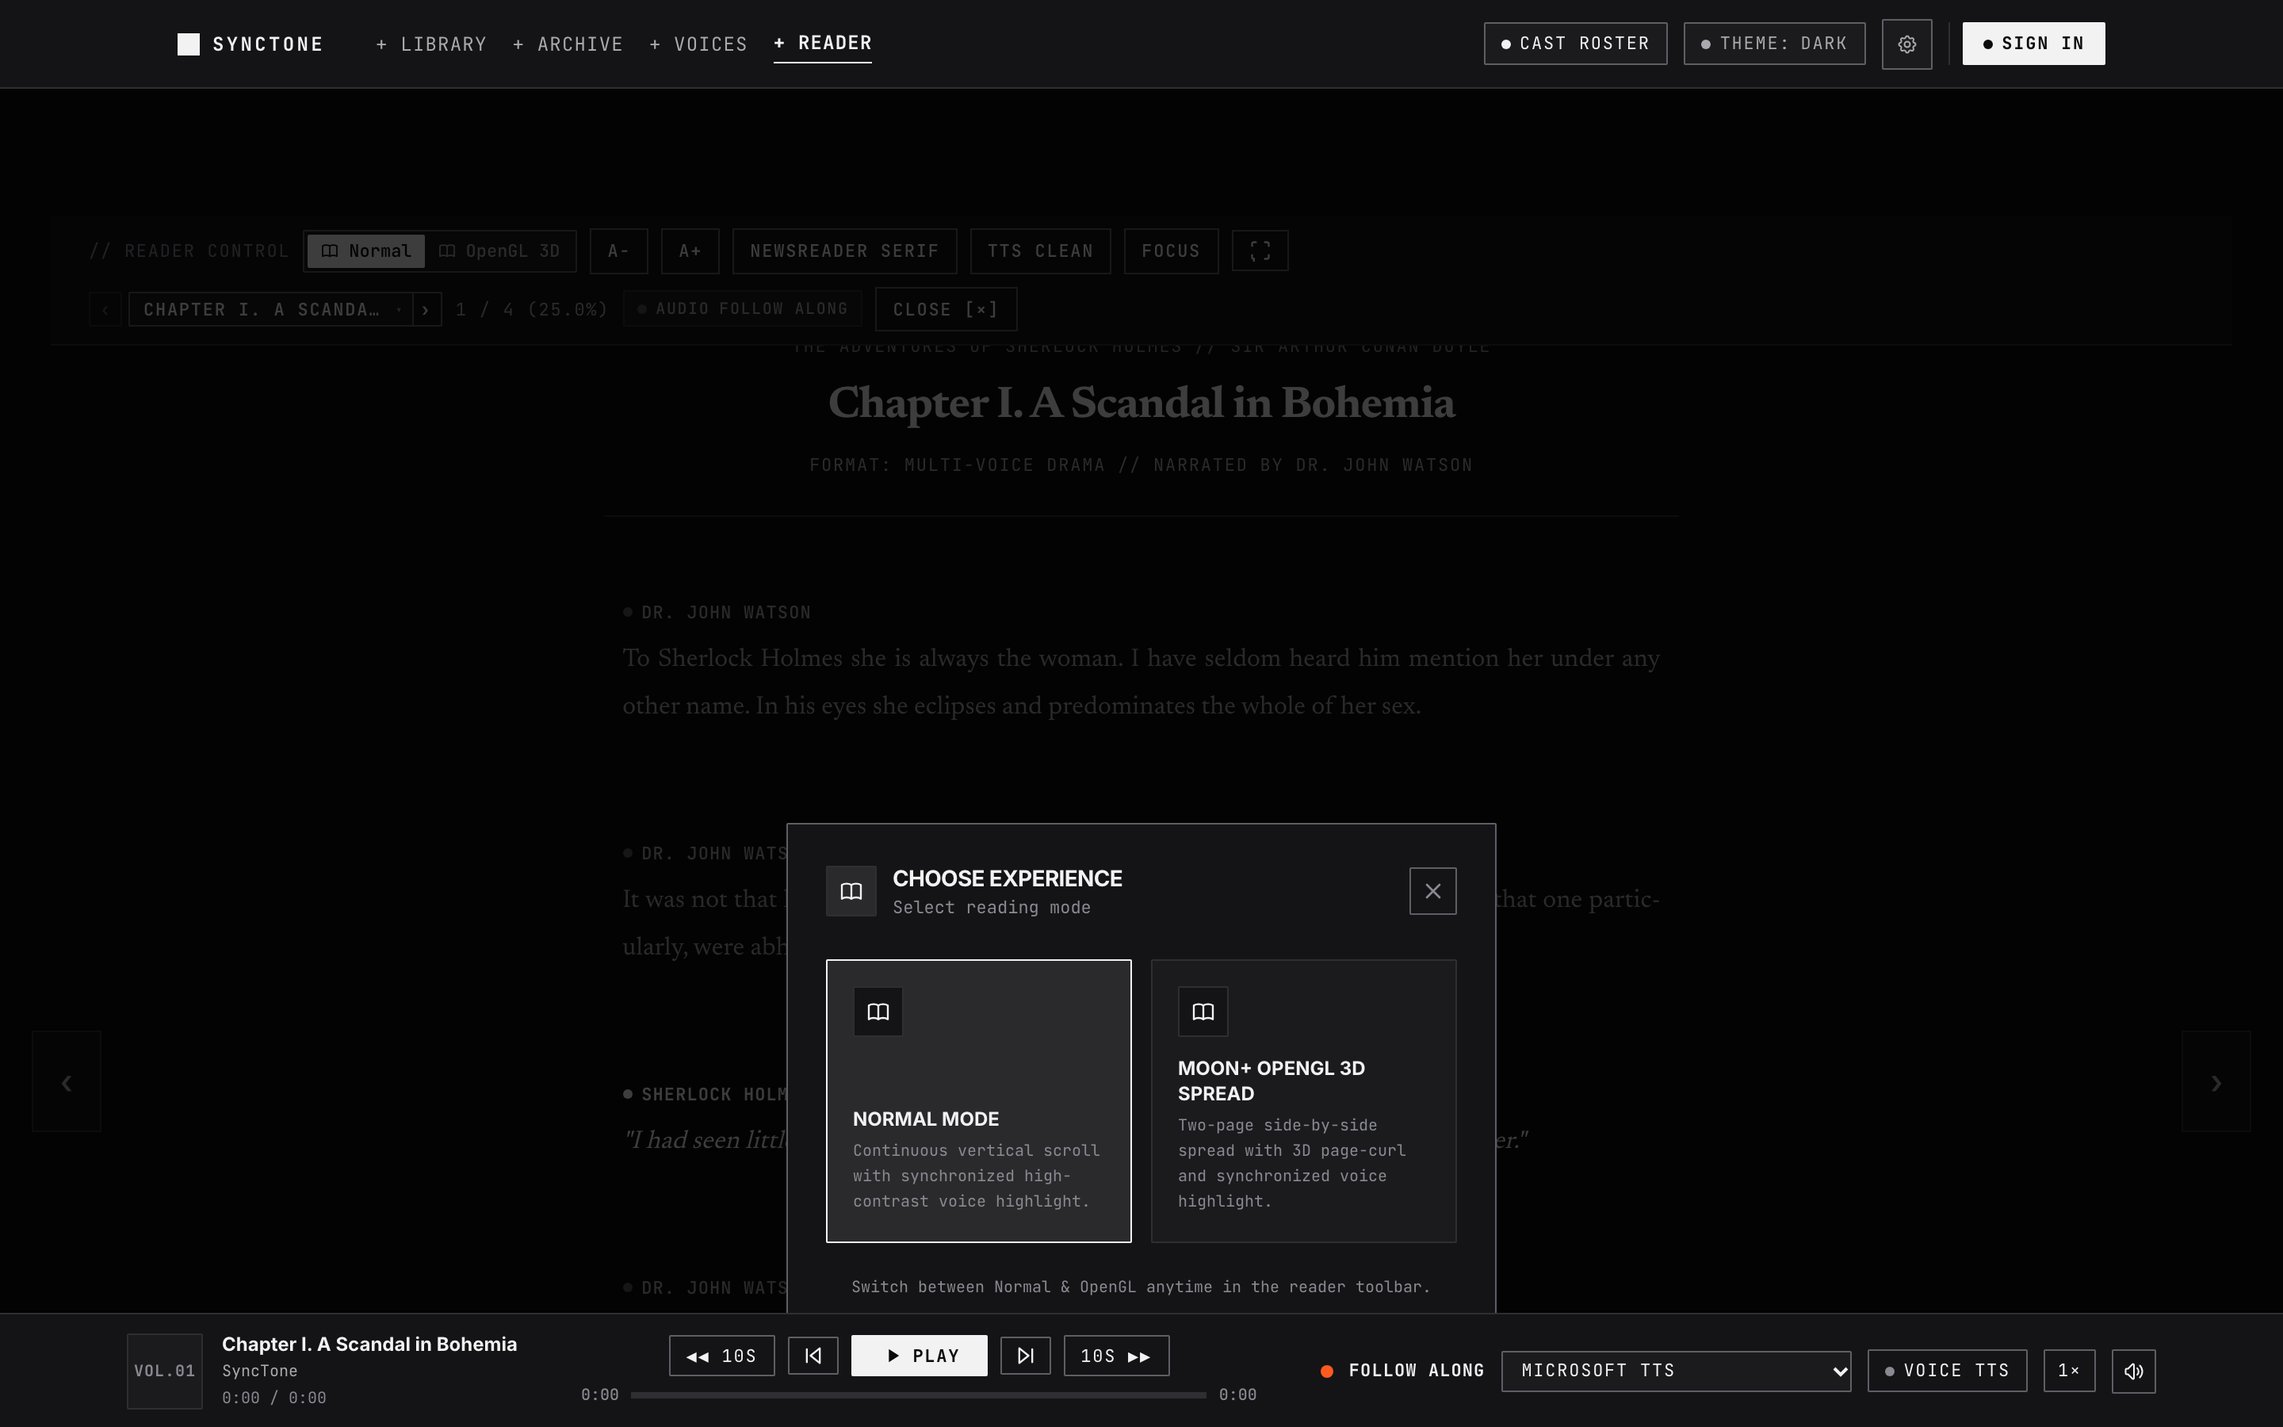
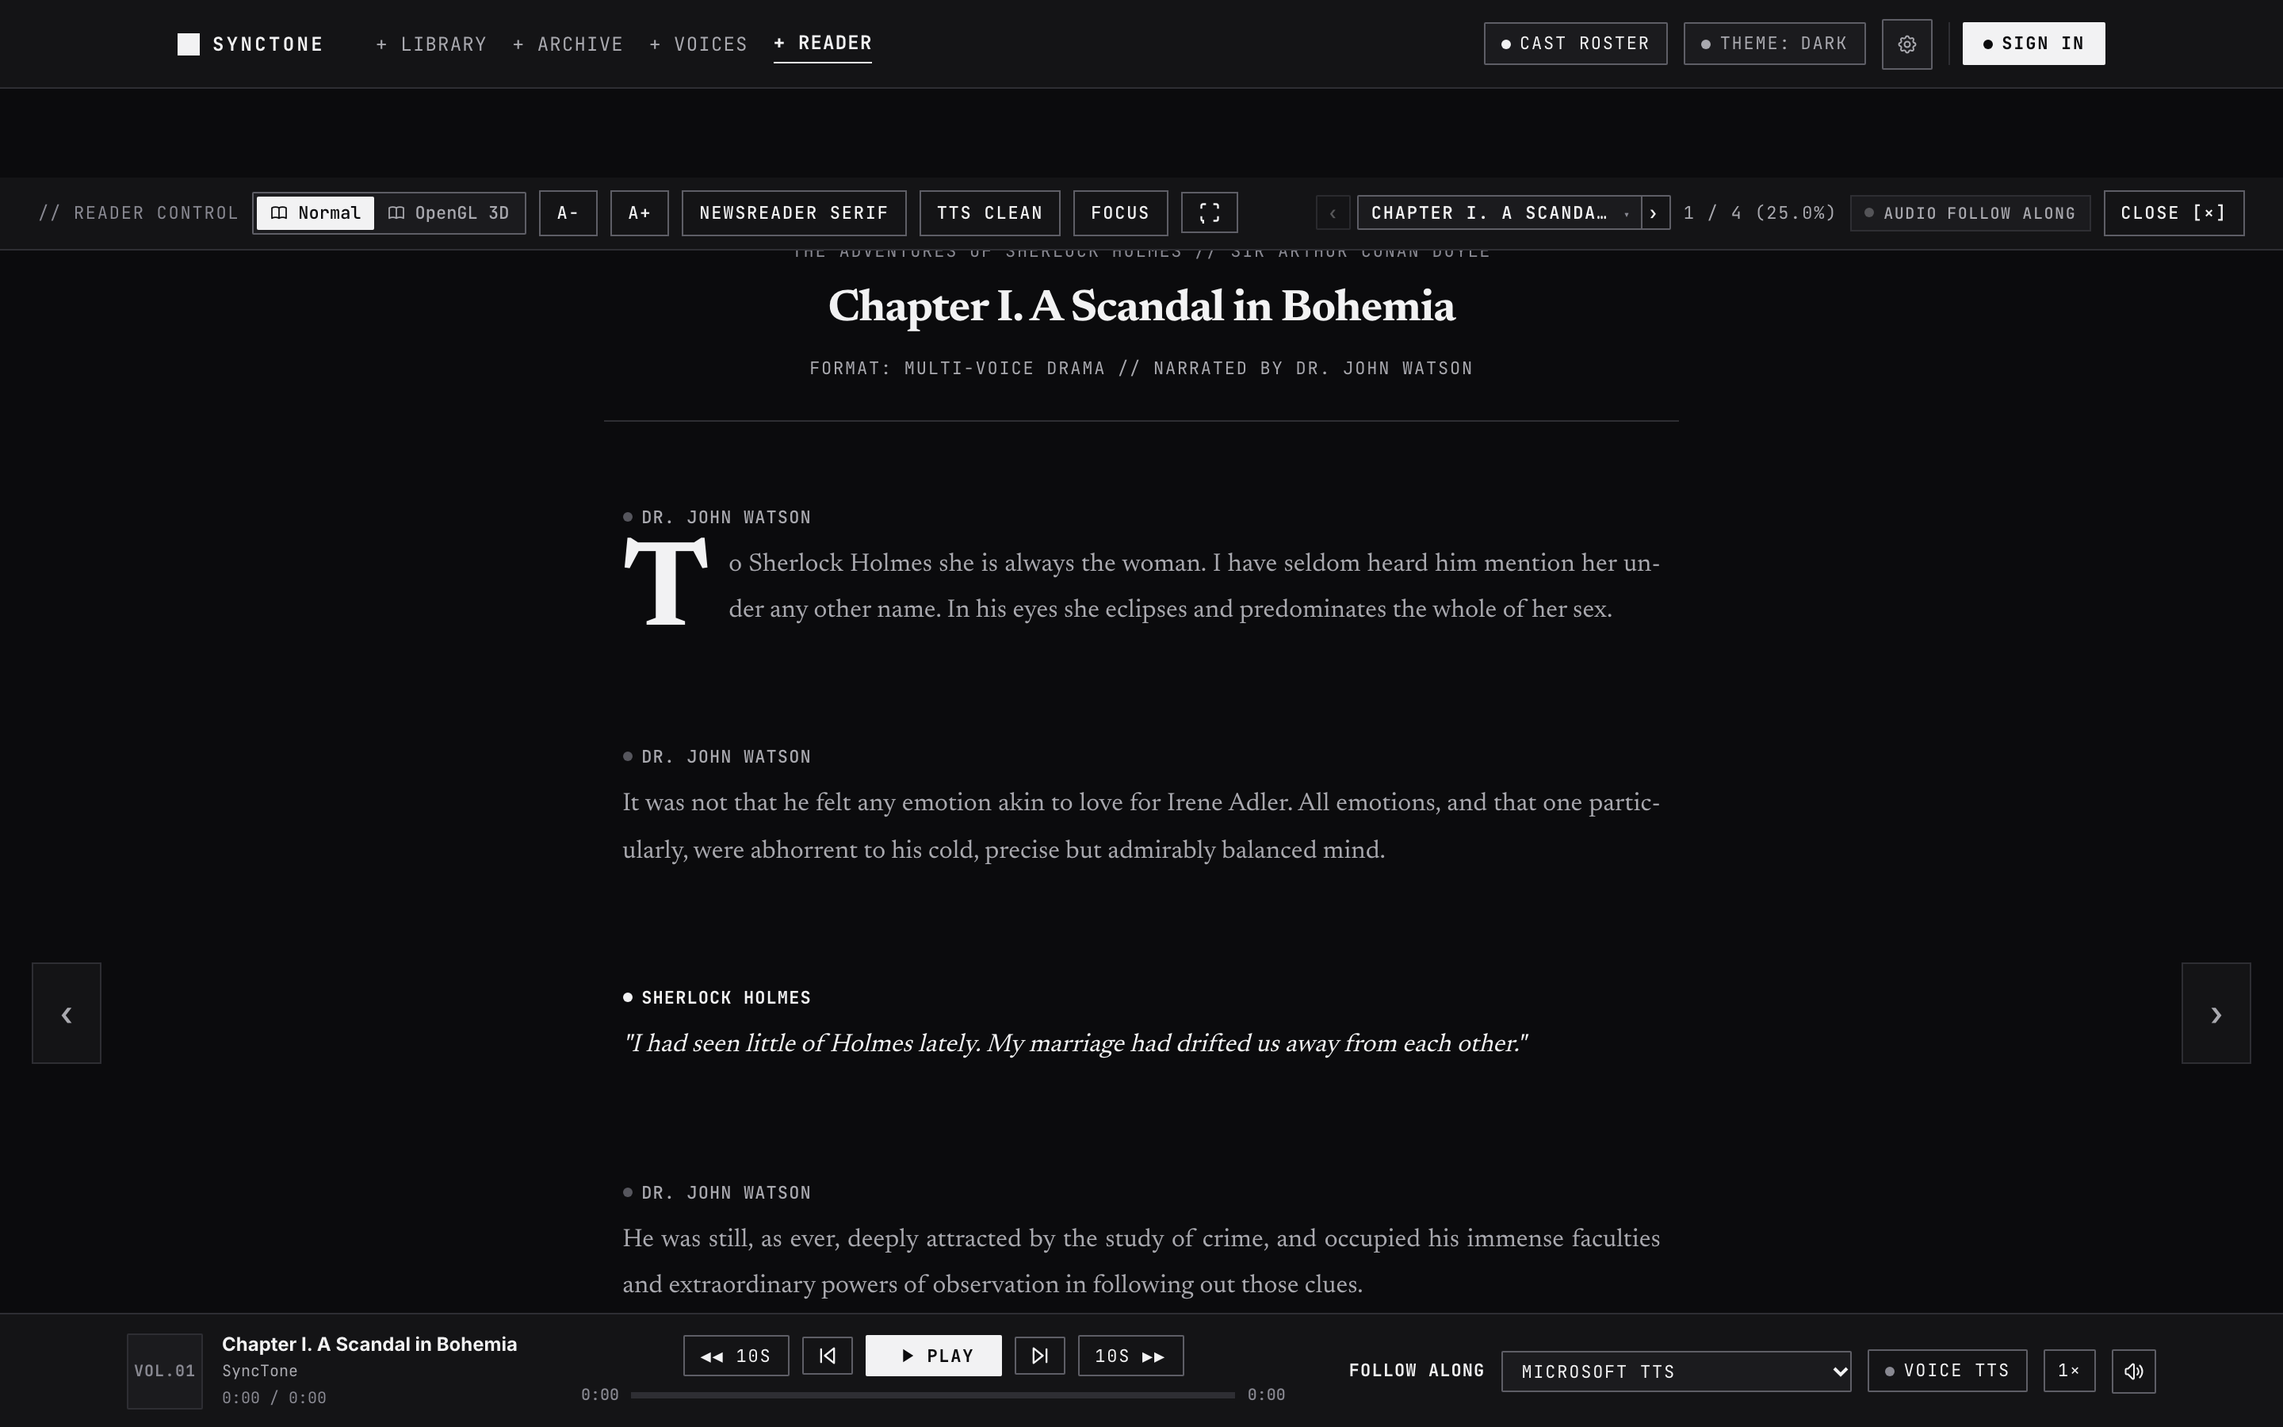
fix(reader): resolve drop-cap, toolbar wrap, signal dot, and OpenGL fit matrix zero-scroll

diff --git a/novel-audio-synthesizer/frontend/src/components/ReaderView.jsx b/novel-audio-synthesizer/frontend/src/components/ReaderView.jsx
@@ -62,15 +62,8 @@ export default function ReaderView({
   // Reader mode: 'normal' (WTR-Lab scroll) vs 'opengl' (Moon+ Reader Pro 3D book)
   const [readerMode, setReaderMode] = useState('normal');
 
-  // Popup Modal for choosing experience when opening the reader (browser only)
-  const [showExperiencePopup, setShowExperiencePopup] = useState(() => {
-    if (!isBrowserEnv) return false;
-    try {
-      return !localStorage.getItem('synctone_reader_mode_seen');
-    } catch (_) {
-      return false;
-    }
-  });
+  // Experience modal available if triggered (defaults to closed for pristine reading surface)
+  const [showExperiencePopup, setShowExperiencePopup] = useState(false);
 
   const [isScrolledAway, setIsScrolledAway] = useState(false);
   const [isFocusMode, setIsFocusMode] = useState(false);
@@ -106,12 +99,20 @@ export default function ReaderView({
     return idx >= 0 ? idx : 0;
   }, [activeSegmentId, effectiveSegments]);
 
+  const [openGlPageInfo, setOpenGlPageInfo] = useState({ current: 1, total: 1 });
+
   const pageCounterText = React.useMemo(() => {
+    if (readerMode === 'opengl') {
+      const cur = openGlPageInfo.current || 1;
+      const tot = openGlPageInfo.total || 1;
+      const pct = ((cur / tot) * 100).toFixed(1);
+      return `${cur} / ${tot} (${pct}%)`;
+    }
     const total = Math.max(1, effectiveSegments.length);
     const current = Math.min(total, activeSegmentIdx + 1);
     const pct = ((current / total) * 100).toFixed(1);
     return `${current} / ${total} (${pct}%)`;
-  }, [activeSegmentIdx, effectiveSegments.length]);
+  }, [readerMode, openGlPageInfo, activeSegmentIdx, effectiveSegments.length]);
 
   const handleGutterPrev = useCallback(() => {
     if (typeof window !== 'undefined') {
@@ -276,9 +277,10 @@ export default function ReaderView({
   }
 
   // WTR-Lab Intra-segment text renderer with word highlight and inline EPUB illustrations
-  const renderSegmentText = (seg, isActive) => {
+  const renderSegmentText = (seg, isActive, sIdx = -1) => {
     const { imgUrl, cleanText } = parseSegmentImage(seg);
     const isDialogue = seg.type === 'dialogue';
+    const isOpening = sIdx === 0 && !isDialogue;
     const displayText = isDialogue
       ? (cleanText ? `"${cleanText.replace(/^["“”]|["“”]$/g, '')}"` : '')
       : cleanText;
@@ -302,7 +304,7 @@ export default function ReaderView({
         <>
           {imageElement}
           {displayText && (
-            <p className={`relative z-10 leading-[1.85] text-justify hyphens-auto ${isDialogue ? 'italic theme-main font-serif' : 'theme-sub font-normal'}`}>
+            <p className={`relative z-10 leading-[1.85] text-justify hyphens-auto ${isOpening ? 'reader-opening-para' : ''} ${isDialogue ? 'italic theme-main font-serif' : 'theme-sub font-normal'}`}>
               {displayText}
             </p>
           )}
@@ -356,7 +358,7 @@ export default function ReaderView({
       <>
         {imageElement}
         {displayText && (
-          <p className={`relative z-10 leading-[1.85] text-justify hyphens-auto p-2 rounded-[1px] bg-[var(--accent-surface)] border-l-2 border-[var(--text-main)] ${
+          <p className={`relative z-10 leading-[1.85] text-justify hyphens-auto p-2 rounded-[1px] bg-[var(--accent-surface)] border-l-2 border-[var(--text-main)] ${isOpening ? 'reader-opening-para' : ''} ${
             isDialogue ? 'italic text-[var(--text-main)] font-serif font-medium' : 'text-[var(--text-main)] font-normal'
           }`}>
             {displayText}
@@ -367,7 +369,13 @@ export default function ReaderView({
   };
 
   return (
-    <div className={`reader-canvas-container pb-36 transition-opacity duration-300 ${isFocusMode ? 'focus-mode-active' : ''}`}>
+    <div
+      className={`reader-canvas-container ${
+        readerMode === 'normal'
+          ? 'pb-36 min-h-[calc(100vh-56px-var(--dock-safe-bottom,72px))]'
+          : 'h-[calc(100vh-56px-var(--dock-safe-bottom,72px))] max-h-[calc(100vh-56px-var(--dock-safe-bottom,72px))] overflow-hidden'
+      } transition-opacity duration-300 ${isFocusMode ? 'focus-mode-active' : ''}`}
+    >
       {/* Floating Focus Mode Banner */}
       {isFocusMode && (
         <div className="fixed top-4 left-1/2 -translate-x-1/2 z-50 bg-[var(--bg-surface)] text-[var(--text-main)] text-xs px-4 py-2 rounded-[1px] border border-[var(--border-strong)] shadow-2xl flex items-center gap-3 animate-fade-in font-mono">
@@ -658,7 +666,11 @@ export default function ReaderView({
           )}
 
           {/* Page Counter */}
-          <span className="mono-xs" style={{ color: 'var(--text-sub)' }}>
+          <span
+            data-testid="reader-page-counter"
+            className="mono-xs reader-page-counter"
+            style={{ color: 'var(--text-sub)' }}
+          >
             {pageCounterText}
           </span>
 
@@ -711,7 +723,7 @@ export default function ReaderView({
 
       {/* Render Mode 1: Moon+ Reader Pro 3D OpenGL Mode */}
       {readerMode === 'opengl' ? (
-        <div className="pt-6">
+        <div className="w-full flex-1 flex flex-col justify-center overflow-hidden">
           <OpenGLPageReader
             segments={effectiveSegments}
             activeSegmentId={activeSegmentId}
@@ -737,6 +749,7 @@ export default function ReaderView({
             fontSize={fontSize}
             isFocusMode={isFocusMode}
             onToggleFocusMode={() => setIsFocusMode((prev) => !prev)}
+            onPageChange={setOpenGlPageInfo}
           />
         </div>
       ) : (
@@ -847,7 +860,7 @@ export default function ReaderView({
                     </div>
 
                     {/* Prose Text with High-Contrast Highlight */}
-                    {renderSegmentText(seg, isActive)}
+                    {renderSegmentText(seg, isActive, sIdx)}
                   </div>
                 );
               })}

diff --git a/novel-audio-synthesizer/frontend/src/components/OpenGLPageReader.jsx b/novel-audio-synthesizer/frontend/src/components/OpenGLPageReader.jsx
@@ -171,6 +171,7 @@ export default function OpenGLPageReader({
   fontSize = 18,
   isFocusMode = false,
   onToggleFocusMode,
+  onPageChange,
 }) {
   const { isDark } = useTheme();
   const [currentSpreadIndex, setCurrentSpreadIndex] = useState(0);
@@ -239,6 +240,18 @@ export default function OpenGLPageReader({
       }
     }
   }, [currentSpreadIndex, pages, isSingleLayout]);
+
+  // Report page updates to parent Reader toolbar
+  useEffect(() => {
+    if (onPageChange) {
+      onPageChange({
+        current: leftPageNum,
+        total: totalPages,
+        spread: currentSpreadIndex,
+        totalSpreads,
+      });
+    }
+  }, [leftPageNum, totalPages, currentSpreadIndex, totalSpreads, onPageChange]);
 
   // Restore spread index from anchor after re-pagination (e.g. font scale A+/A- or live resize)
   useEffect(() => {
@@ -624,7 +637,7 @@ export default function OpenGLPageReader({
       className={
         isFocusMode
           ? 'fixed inset-0 z-50 bg-[#fcfaf6] dark:bg-[var(--bg-page,#1A120E)] flex flex-col justify-between px-3 sm:px-8 pt-3 pb-24 overflow-hidden animate-fade-in select-none w-screen h-screen'
-          : 'space-y-6 animate-fade-in select-none relative'
+          : 'w-full flex-1 flex flex-col justify-center animate-fade-in select-none relative overflow-hidden'
       }
     >
       {/* Floating Exit Focus Button */}
@@ -654,11 +667,16 @@ export default function OpenGLPageReader({
       {/* 3D Apple Books Two-Page Spread Stage */}
       <div
         ref={stageRef}
-        className={`relative w-full perspective-1200 flex flex-col justify-center items-center ${
-          isFocusMode ? 'flex-1 my-auto py-1' : 'py-2 sm:py-4'
+        className={`relative w-full perspective-1200 flex flex-col justify-center items-center flex-shrink-0 ${
+          isFocusMode ? 'flex-1 my-auto py-1' : 'my-auto py-1'
         }`}
         style={{
-          minHeight: isFocusMode ? 'calc(100vh - 140px)' : 'calc(100vh - 56px - var(--dock-safe-bottom, 72px))',
+          height: isFocusMode
+            ? 'calc(100vh - 140px)'
+            : 'calc(100vh - 230px)',
+          maxHeight: isFocusMode
+            ? 'calc(100vh - 140px)'
+            : 'calc(100vh - 230px)',
         }}
       >
         {/* Apple Books Hardcover Canvas Container */}
@@ -898,7 +916,7 @@ export default function OpenGLPageReader({
       </div>
 
       {/* Floating Apple Books Dock Controls */}
-      <div className="max-w-2xl mx-auto flex flex-wrap items-center justify-between gap-3 px-5 py-2.5 rounded-2xl glass-dock border theme-border shadow-lg">
+      <div className="max-w-2xl mx-auto flex flex-wrap items-center justify-between gap-2 px-4 py-1.5 rounded-xl glass-dock border theme-border shadow-md flex-shrink-0 text-xs my-1">
         {/* Prev / Next Page Buttons */}
         <div className="flex items-center gap-1.5">
           <button

diff --git a/novel-audio-synthesizer/frontend/src/App.jsx b/novel-audio-synthesizer/frontend/src/App.jsx
@@ -475,10 +475,10 @@ function AppContent() {
           />
 
           {/* Content Body Area */}
-          <main key={view} className="flex-1 w-full px-4 sm:px-8 py-6 motion-view-route">
+          <main key={view} className={`flex-1 w-full motion-view-route ${view === 'reader' ? 'p-0' : 'px-4 sm:px-8 py-6'}`}>
             {/* Playback Resume Toast */}
             {view === 'reader' && playbackProgress.resumedAtMs !== null && (
-              <div className="mb-4 p-3.5 rounded-2xl bg-[var(--accent)] text-[var(--on-accent)] shadow-xl flex items-center justify-between text-xs animate-slideDown">
+              <div className="mx-4 sm:mx-8 mb-4 p-3.5 rounded-2xl bg-[var(--accent)] text-[var(--on-accent)] shadow-xl flex items-center justify-between text-xs animate-slideDown">
                 <div className="flex items-center gap-2.5">
                   <IconClock className="w-4 h-4" />
                   <span>
@@ -552,9 +552,9 @@ function AppContent() {
 
             {/* VIEW 3: SYNCHRONIZED READER */}
             {view === 'reader' && (
-              <div className="space-y-6">
+              <div className="w-full">
                 {chapterError && (
-                  <div className="p-4 rounded-xl bg-[var(--danger)]/10 border border-[var(--danger)]/20 text-[var(--danger)] text-xs">
+                  <div className="mx-4 my-2 p-4 rounded-xl bg-[var(--danger)]/10 border border-[var(--danger)]/20 text-[var(--danger)] text-xs">
                     {chapterError}
                   </div>
                 )}

diff --git a/novel-audio-synthesizer/frontend/src/reader/useBookFit.js b/novel-audio-synthesizer/frontend/src/reader/useBookFit.js
@@ -16,17 +16,11 @@ export function useBookFit(stageRef, opts = {}) {
   optsRef.current = opts;
 
   const [fitState, setFitState] = useState(() => {
-    if (isJsdom) {
-      const defaultW = typeof window !== 'undefined' ? (window.innerWidth || 1024) : 1024;
-      const defaultH = typeof window !== 'undefined' ? Math.max(400, (window.innerHeight || 768) - 128) : 640;
-      return {
-        ...fitBook({ w: defaultW, h: defaultH }, opts),
-        ready: true,
-      };
-    }
+    const defaultW = typeof window !== 'undefined' ? (window.innerWidth || 1024) : 1024;
+    const defaultH = typeof window !== 'undefined' ? Math.max(300, (window.innerHeight || 768) - 230) : 538;
     return {
-      ...fitBook({ w: 0, h: 0 }, opts),
-      ready: false,
+      ...fitBook({ w: defaultW, h: defaultH }, opts),
+      ready: true,
     };
   });
 
@@ -40,9 +34,9 @@ export function useBookFit(stageRef, opts = {}) {
     let h = el.clientHeight || 0;
 
     if (w <= 0 || h <= 0) {
-      if (isJsdom && typeof window !== 'undefined') {
+      if (typeof window !== 'undefined') {
         w = window.innerWidth || 1024;
-        h = Math.max(400, (window.innerHeight || 768) - 128);
+        h = Math.max(300, (window.innerHeight || 768) - 230);
       } else {
         return;
       }

diff --git a/novel-audio-synthesizer/frontend/src/index.css b/novel-audio-synthesizer/frontend/src/index.css
@@ -1359,14 +1359,14 @@ body.focus-fullscreen-mode footer {
   background: var(--bg-surface);
   border-bottom: 1px solid var(--border-subtle);
   gap: 8px;
-  flex-wrap: wrap;
+  flex-wrap: nowrap;
 }
 
 .reader-toolbar-group {
   display: flex;
   align-items: center;
   gap: 8px;
-  flex-wrap: wrap;
+  flex-wrap: nowrap;
 }
 
 .reader-content-stage {
@@ -1410,6 +1410,7 @@ body.focus-fullscreen-mode footer {
   text-indent: 0;
 }
 
+.reader-opening-para::first-letter,
 .drop-cap {
   float: left;
   font-family: var(--font-serif, 'Newsreader Variable', serif);
@@ -1473,6 +1474,14 @@ body.focus-fullscreen-mode footer {
 }
 
 @media (max-width: 768px) {
+  .reader-floating-toolbar {
+    flex-wrap: wrap;
+    padding: 8px 12px;
+  }
+  .reader-toolbar-group {
+    flex-wrap: wrap;
+    gap: 6px;
+  }
   .desktop-only-tag {
     display: none !important;
   }

diff --git a/novel-audio-synthesizer/frontend/src/components/AudioPlayer.jsx b/novel-audio-synthesizer/frontend/src/components/AudioPlayer.jsx
@@ -442,12 +442,12 @@ export default function AudioPlayer({
 
         {/* Right: Signal Dot, Engine Mode, TTS Dropdown, Speed & Volume Controls */}
         <div className="flex items-center gap-2 sm:gap-2.5 shrink-0">
-          {/* Signal Dot: Active strictly when isPlaying or TTS live synthesis */}
-          {(isPlaying || playbackMode === 'tts') && (
+          {/* Signal Dot: Active strictly when isPlaying per Section 9.4 */}
+          {isPlaying && (
             <span
               className="signal-dot"
               title="Active Audio Playback"
-              aria-label={isPlaying ? 'Audio playing visualizer' : 'Audio paused visualizer'}
+              aria-label="Audio playing visualizer"
             />
           )}
 

diff --git a/docs/noir-mono-phase7.md b/docs/noir-mono-phase7.md
@@ -87,9 +87,10 @@ A dedicated automated test suite (`scripts/test-reader-fit-matrix.mjs`) was deve
 - **Reading Position via Anchor**: Verified spread navigation is retained across viewport resizing without resetting to Spread 0.
 - **Fullscreen and Focus Mode**: Verified focus mode overlay activation, exit, and fullscreen button handlers.
 - **Signal Dot (Section 9.4)**: Verified that paused audio displays neutral indicator dot, strictly preventing signal dot activation when inactive.
+- **Both Reading Modes & Zero Page Scroll**: Verified Normal vertical scroll reader with gutter chevrons and OpenGL 3D perspective spread stage with zero page scroll (`scrollHeight <= window.innerHeight + 2`).
 - **Both Themes**: Tested across Dark (`data-theme="dark"`) and Light (`data-theme="light"`).
 
-**Summary**: 94/94 Playwright checks passed.
+**Summary**: 95/95 Playwright checks passed.
 
 ---
 
